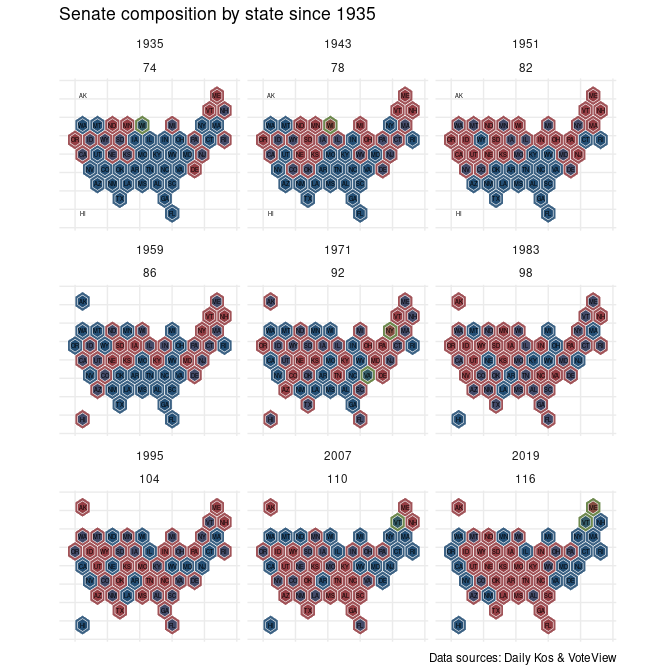
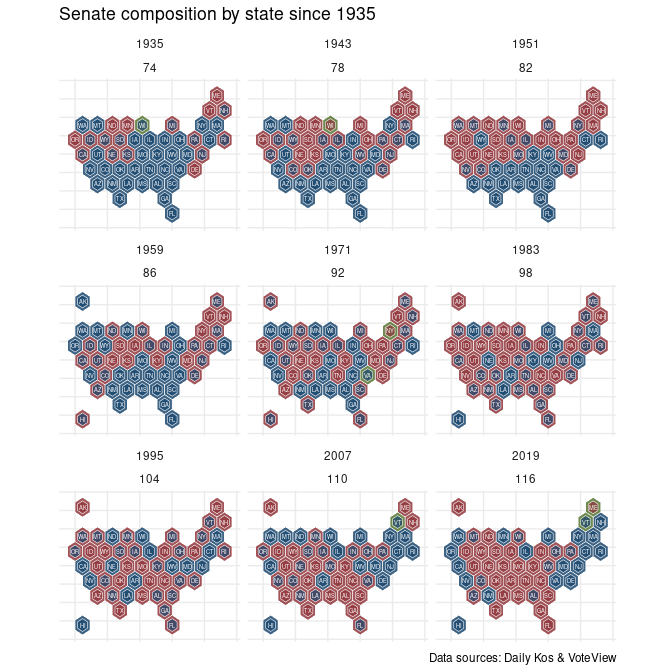
re

diff --git a/all-the-newness.md b/all-the-newness.md
@@ -35,35 +35,34 @@ work presented here can be reproduced in its entirety.
         -   [V2 Last vote for a Democrat](#v2-last-vote-for-a-democrat)
         -   [V3 Highest vote share
             historically](#v3-highest-vote-share-historically)
-    -   [IV Senate composition](#iv-senate-composition)
+    -   [Senate composition](#senate-composition)
         -   [V4 Split delegations](#v4-split-delegations)
         -   [V5 Total split delegations](#v5-total-split-delegations)
         -   [V6 The end of split-ticket
             voting](#v6-the-end-of-split-ticket-voting)
-    -   [V Historical composition of the
-        House](#v-historical-composition-of-the-house)
+    -   [Historical composition of the
+        House](#historical-composition-of-the-house)
         -   [V7 Political realignment in the
             South](#v7-political-realignment-in-the-south)
         -   [V8 The birth of the Southern
             Republican](#v8-the-birth-of-the-southern-republican)
-    -   [VI Four generations of
-        lawmakers](#vi-four-generations-of-lawmakers)
+    -   [Four generations of lawmakers](#four-generations-of-lawmakers)
         -   [V9 Average age by party](#v9-average-age-by-party)
         -   [V10 Shifting ditributions](#v10-shifting-ditributions)
         -   [V11 Watergate babies etc](#v11-watergate-babies-etc)
         -   [V12 Millenials and Gen Xers](#v12-millenials-and-gen-xers)
-    -   [VII Congressional districts and the American Communty
-        Survey](#vii-congressional-districts-and-the-american-communty-survey)
+    -   [Congressional districts and the American Communty
+        Survey](#congressional-districts-and-the-american-communty-survey)
         -   [V13 Profiling New Mexico 2nd
             dsitrict](#v13-profiling-new-mexico-2nd-dsitrict)
         -   [V14 SocioDems and margins of
             victory](#v14-sociodems-and-margins-of-victory)
         -   [V15 Some notes on rural
             America](#v15-some-notes-on-rural-america)
-    -   [VIII The White working class](#viii-the-white-working-class)
+    -   [The White working class](#the-white-working-class)
         -   [V15 White working profiles](#v15-white-working-profiles)
         -   [V16 A working map](#v16-a-working-map)
-    -   [IX Lastly](#ix-lastly)
+    -   [Lastly](#lastly)
 
 Quick preliminaries
 -------------------
@@ -183,8 +182,8 @@ vvo <- lapply(c('house', 'senate'), function(x) {
     filter(congress > 66 & chamber != 'President') })
 ```
 
-    ## [1] "/tmp/Rtmp2gmHrf/Hall_members.csv"
-    ## [1] "/tmp/Rtmp2gmHrf/Sall_members.csv"
+    ## [1] "/tmp/RtmphVUvQi/Hall_members.csv"
+    ## [1] "/tmp/RtmphVUvQi/Sall_members.csv"
 
 ``` r
 congress <- vvo %>%
@@ -362,8 +361,8 @@ uspols::xsf_TileOutv10 %>%
 
 ![](all-the-newness_files/figure-markdown_github/unnamed-chunk-16-1.png)
 
-IV Senate composition
----------------------
+Senate composition
+------------------
 
 ### V4 Split delegations
 
@@ -405,7 +404,7 @@ uspols::xsf_TileOutv10 %>%
   ggsflabel::geom_sf_text(data = uspols::xsf_TileInv10,
                           aes(label = state_abbrev), 
                           size = 1.5,
-                          color = 'black') +
+                          color = 'white') +
   
   ggthemes::scale_fill_stata()+
   theme_minimal() + 
@@ -496,8 +495,8 @@ labs(title = "Pres-Senate split-tickets per general election year")
 
 ![](all-the-newness_files/figure-markdown_github/unnamed-chunk-21-1.png)
 
-V Historical composition of the House
--------------------------------------
+Historical composition of the House
+-----------------------------------
 
 ``` r
 congress_south <- congress %>% 
@@ -579,8 +578,8 @@ congress_south %>%
 
 ![](all-the-newness_files/figure-markdown_github/unnamed-chunk-24-1.png)
 
-VI Four generations of lawmakers
---------------------------------
+Four generations of lawmakers
+-----------------------------
 
 > [Pew
 > Research](http://www.pewresearch.org/fact-tank/2018/04/11/millennials-largest-generation-us-labor-force/ft_15-05-11_millennialsdefined/)
@@ -766,8 +765,8 @@ congress %>%
 
 ![](all-the-newness_files/figure-markdown_github/unnamed-chunk-30-1.png)
 
-VII Congressional districts and the American Communty Survey
-------------------------------------------------------------
+Congressional districts and the American Communty Survey
+--------------------------------------------------------
 
 ``` r
 variable_list <-  c(bachelors_higher = 'DP02_0068P',
@@ -859,8 +858,8 @@ gen %>%
 
 ### V15 Some notes on rural America
 
-VIII The White working class
-----------------------------
+The White working class
+-----------------------
 
 ``` r
 white_ed_vars <- c(white_m_bach = 'C15002H_006',
@@ -1002,5 +1001,5 @@ ggplot() +
 
 ![](all-the-newness_files/figure-markdown_github/unnamed-chunk-41-1.png)
 
-IX Lastly
----------
+Lastly
+------
